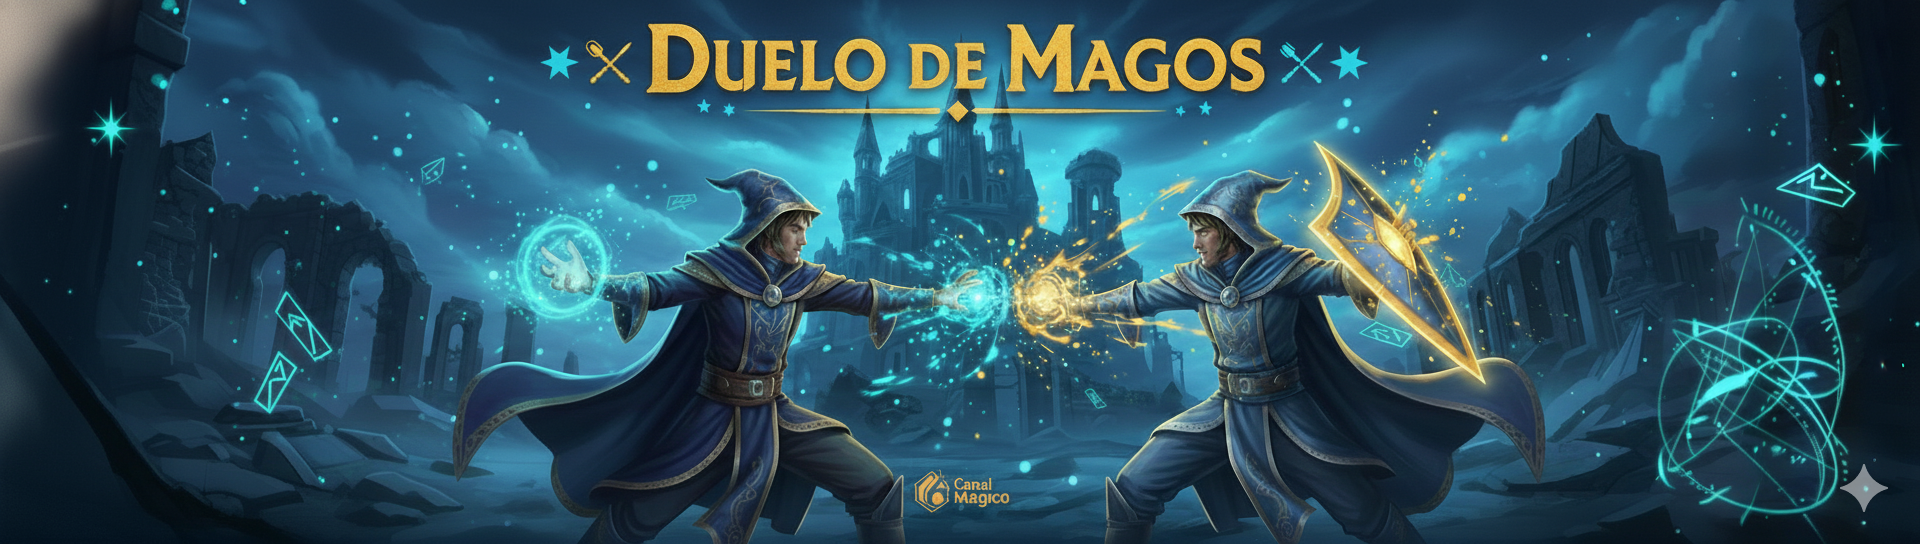
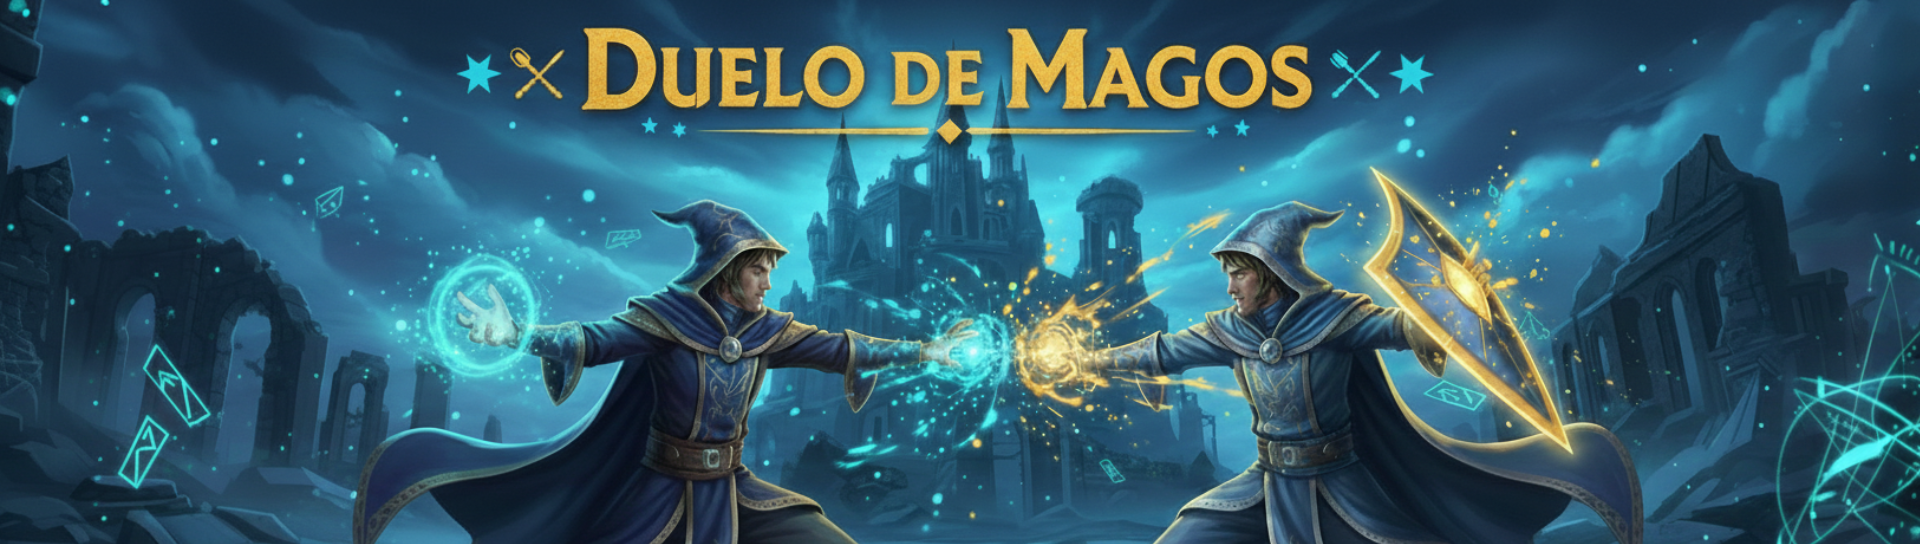
4/12/2025

diff --git a/duelo_magos.html b/duelo_magos.html
@@ -34,33 +34,15 @@
         header {
             background-image: url('img/Portada_duelo_magos.png');
             background-size: cover;
-            background-position: center;
             min-height: 30vh; 
             display: flex;
-            flex-direction: column;
-            justify-content: center;
-            align-items: center;
-            text-align: center;
-            color: #e85d04;
-            padding: 40px 20px;
             box-shadow: 0 4px 10px rgba(0,0,0,0.5);
        		border-bottom: 15px solid rgba(0,0,0,0.9);
         }
-
-        header h1 {
-            font-size: 3rem;
-            margin-bottom: 10px;
-            text-shadow: 2px 2px 4px rgba(0,0,0,0.7);
-        }
-
-        header p {
-            font-size: 1.2rem;
-		    font-weight: 300;
-		    margin-bottom: 25px;
-		    background-color: transparent; 
-		    padding: 0;
-		    text-shadow: 2px 2px 4px rgba(0, 0, 0, 1); 
-		    font-weight: bold; 
+        
+        header img{
+        	width: 300%;
+            height: 200%;
         }
 
 		/* Main */
@@ -89,6 +71,74 @@
             flex-wrap: wrap;
             gap: 30px;
             justify-content: center;
+        }
+		
+		/* Articulos del portafolio */
+		
+        .article-card {
+            background-color: #e85d04; 
+            border: 2px solid #e85d04; 
+            border-radius: 10px;
+            box-shadow: 0 4px 6px rgba(0,0,0,0.5);
+            overflow: hidden;
+            width: 300px;
+            flex: 1 1 300px;
+            max-width: 350px;
+            transition: transform 0.3s ease, box-shadow 0.3s ease;
+            display: flex;
+            flex-direction: column;
+        }
+
+        .article-card:hover {
+            transform: translateY(-5px);
+            box-shadow: 0 0 15px rgba(232, 93, 4, 0.6); 
+        }
+
+        .article-card img {
+            width: 100%;
+            height: 200px;
+            object-fit: cover;
+        }
+		
+		/* Contenido de los articulos */
+		
+        .card-content {
+            padding: 20px;
+            flex-grow: 1;
+            display: flex;
+            flex-direction: column;
+        }
+
+        .card-content h3 {
+            margin-bottom: 10px;
+            color: black;
+        }
+
+        .card-content p {
+            font-size: 0.95rem;
+            color: black;
+            margin-bottom: 20px;
+            flex-grow: 1;
+        }
+		
+		/* Botonoes de los articulos */
+		
+        .btn-leer {
+            display: inline-block;
+            background-color: black;
+            color: darkorange;
+            padding: 10px 20px;
+            text-decoration: none;
+            border-radius: 5px;
+            text-align: center;
+            font-weight: bold;
+            align-self: flex-start;
+            transition: background 0.3s;
+        }
+
+        .btn-leer:hover {
+            background-color: #333; /* Un gris muy oscuro en vez de azul */
+            color: #fff;
         }
         
         /* Boton de vuelta */
@@ -133,14 +183,13 @@
 
    <header>
    		<a href="https://elorange12.github.io/Portafolio" class="btn-inicio"><img src="img/Icono_vuelta.png" alt="Volver al Inicio"></a>
-        <h1>Duelo de Magos</h1>
-        <h2>Programa de Python</h2>
     </header>
 
     <main>
         <h2 class="section-title">Mis Proyectos Recientes</h2>
 
         <section class="portfolio-grid">
+        	<article> Este programa consiste en un duelo de un mago contro un escudo protector, este en base a la edad que el usuario introduzca se le atribuiran ciertas estadisticas y este en dos turnos utilizando dos hechizos distintos probará a derrotar a este escuco protector. </article>
             
         </section>
     </main>
